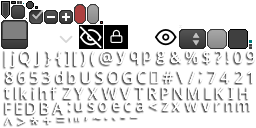
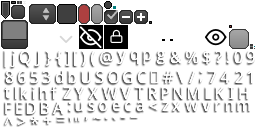
created toggle button for boolean snapToGrid

Changed region(s): [[0.0938, 0.0, 0.5938, 0.1875], [0.5938, 0.1875, 1.0, 0.4062]]

diff --git a/core/src/main/java/io/github/JavaGame2D/EditScreen.java b/core/src/main/java/io/github/JavaGame2D/EditScreen.java
@@ -12,7 +12,9 @@ import com.badlogic.gdx.scenes.scene2d.InputListener;
 import com.badlogic.gdx.scenes.scene2d.Stage;
 import com.badlogic.gdx.scenes.scene2d.actions.Actions;
 import com.badlogic.gdx.scenes.scene2d.ui.*;
+import com.badlogic.gdx.scenes.scene2d.utils.ChangeListener;
 import com.badlogic.gdx.scenes.scene2d.utils.ClickListener;
+import com.badlogic.gdx.scenes.scene2d.utils.Drawable;
 import com.badlogic.gdx.utils.Array;
 import com.badlogic.gdx.utils.viewport.ScreenViewport;
 import io.github.JavaGame2D.Enums.GameMode;
@@ -64,6 +66,7 @@ public class EditScreen implements Screen {
     // 3) rendering layer of an entity changed
     public boolean hierarchyDirty = true;
     public final EditorVisibilityState visibilityState = new EditorVisibilityState();
+    public boolean snapToGrid = true;
 
     public EditScreen(GameManager gameManager) {
         this.gameManager = gameManager;
@@ -122,6 +125,23 @@ public class EditScreen implements Screen {
             }
         });
         topLeftPanel.add(saveButton).left();
+
+        // create toggle button for snapToGrid
+        Drawable snap_to_grid_on = skin.getDrawable("snap_to_grid_on");
+        Drawable snap_to_grid_off = skin.getDrawable("snap_to_grid_off");
+        ImageButton.ImageButtonStyle style = new ImageButton.ImageButtonStyle();
+        style.up = snap_to_grid_off;
+        style.checked = snap_to_grid_on;
+        ImageButton snapToggleButton = new ImageButton(style);
+        snapToggleButton.addListener(new ChangeListener() {
+            @Override
+            public void changed(ChangeEvent event, Actor actor) {
+                System.out.println("snapToGrid: " + snapToGrid);
+                snapToGrid = snapToggleButton.isChecked();
+            }
+        });
+        topLeftPanel.add(snapToggleButton).padLeft(20).padRight(20).left();
+
 
 
         bottomLeftPanel = new Table();
